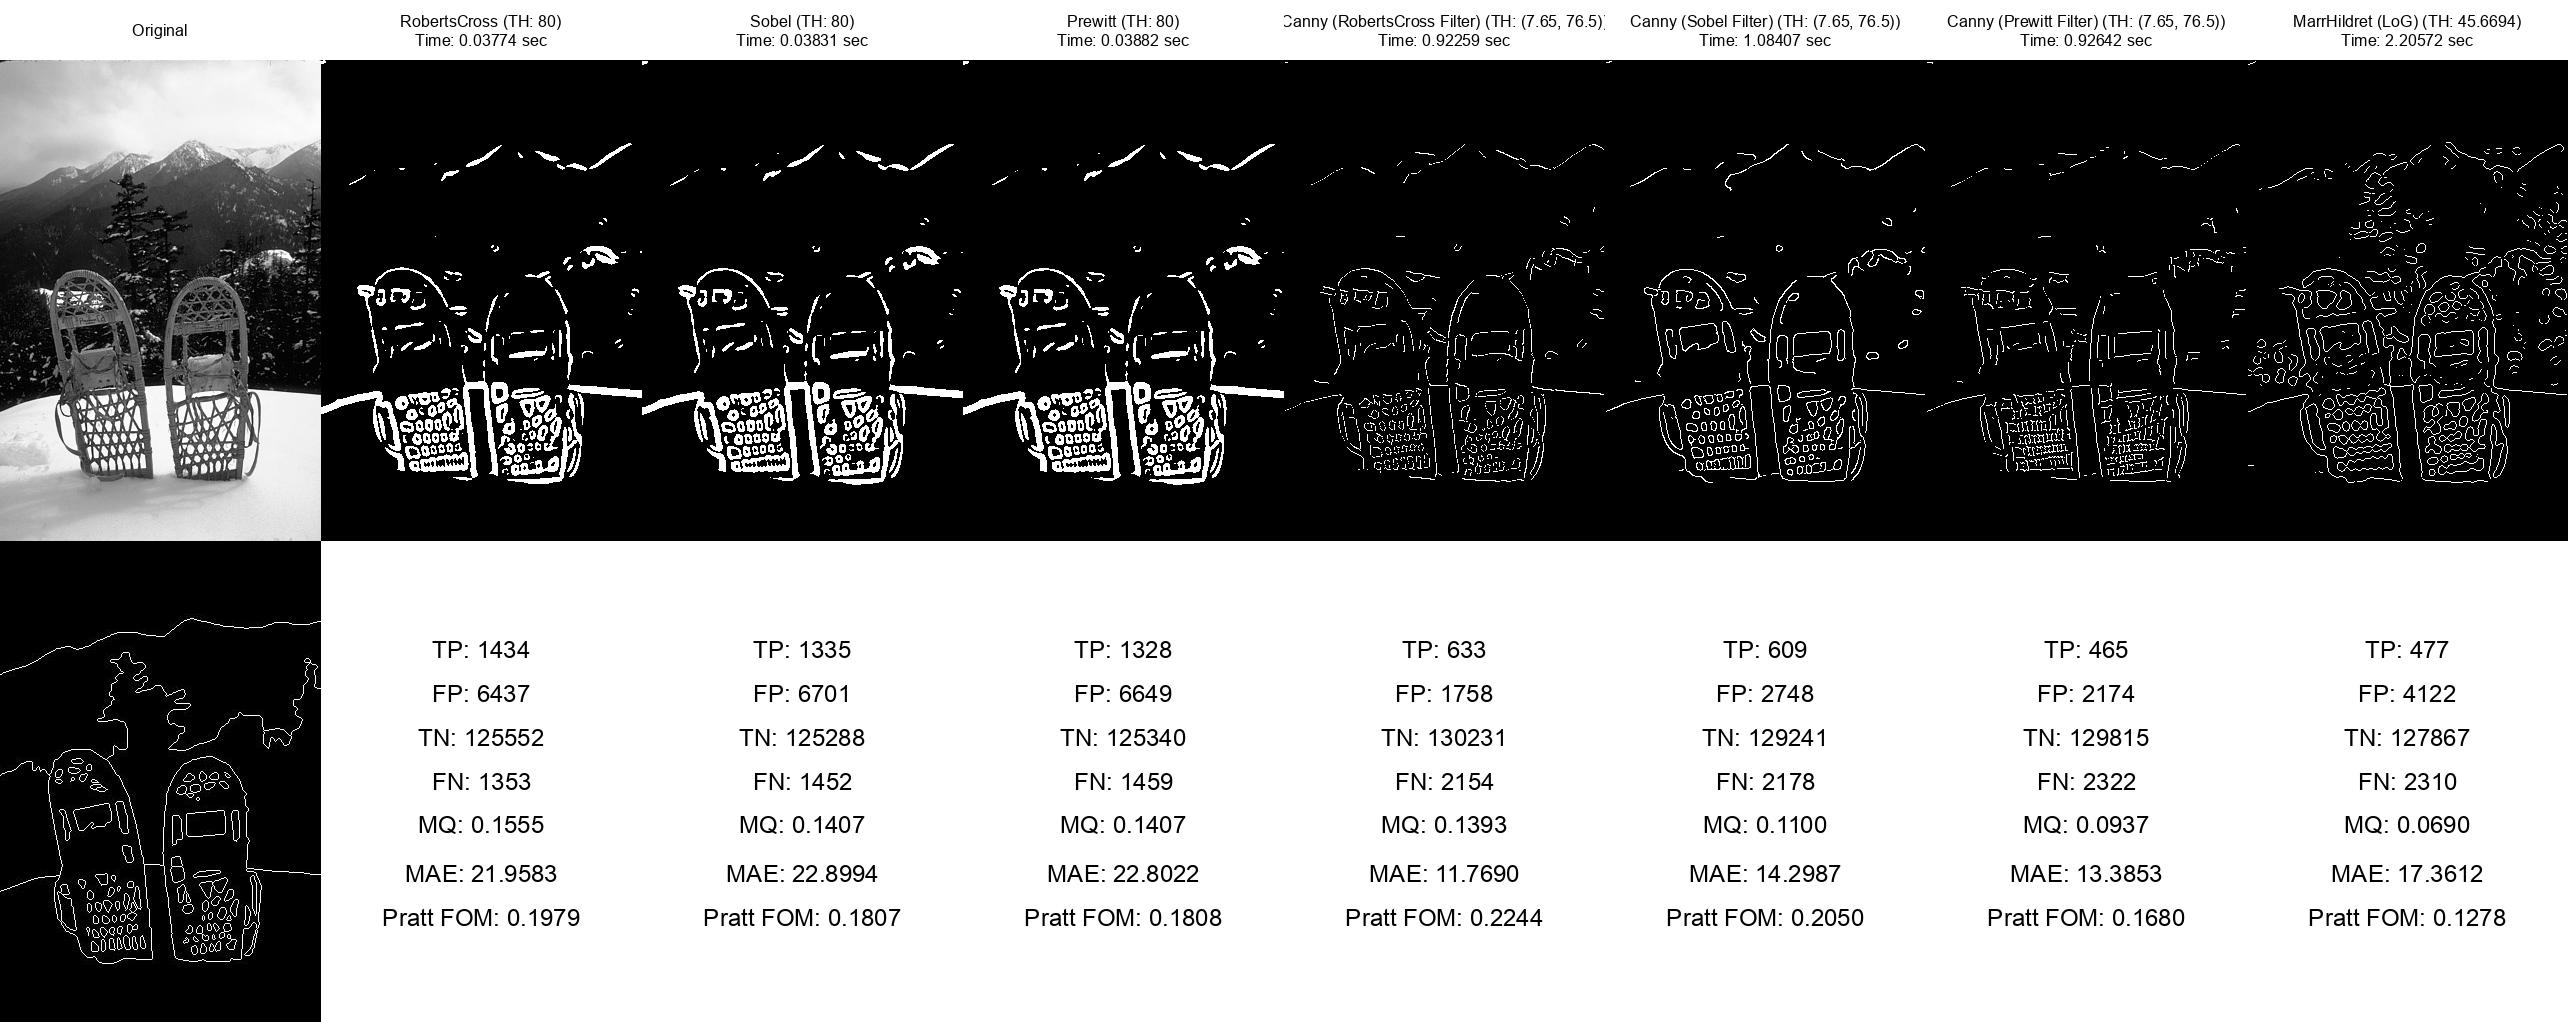
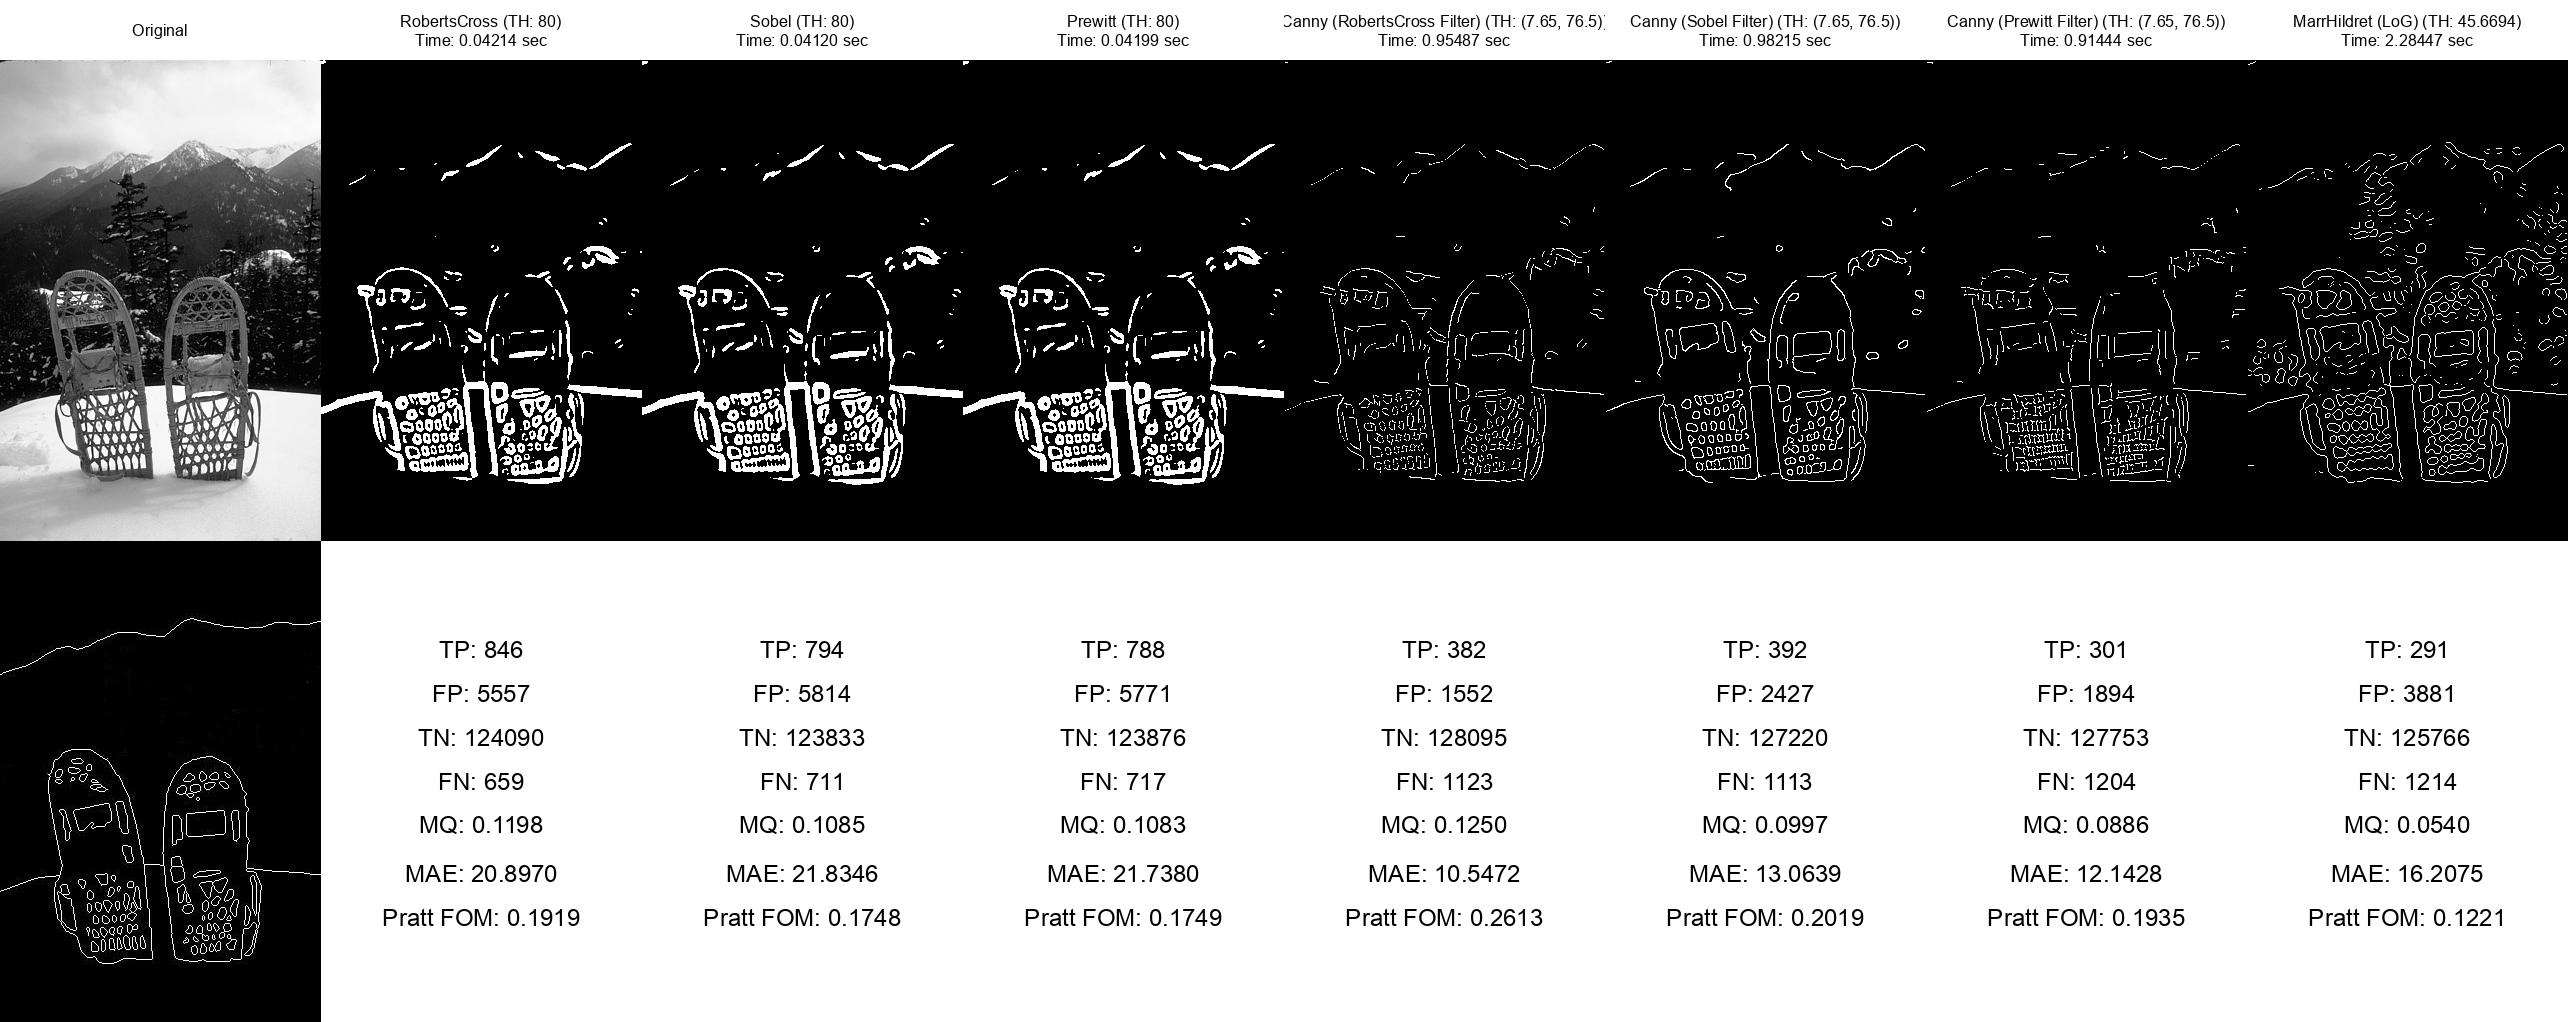
Updated ground truths

diff --git a/src/Benchmark.py b/src/Benchmark.py
@@ -13,7 +13,7 @@ FilterDIM = 3*FilterSIGMA                                               #
                                                                         #
 directory = 'Benchmark_Images/'                                         #
 result_dir = 'Benchmark_Result/'                                        #
-groundtruth_dir = directory+"GroundTruth"                               #
+groundtruth_dir = directory+"GroundTruth/"                               #
 SINGLE_FASE = ["RobertsCross", "Sobel", "Prewitt"]                      #
 MULTI_FASE = { "Canny": ["RobertsCross", "Sobel", "Prewitt"] }          #
 ZERO_CROSS = ["MarrHildret"]                                            #

diff --git a/src/Canny.py b/src/Canny.py
@@ -1,5 +1,5 @@
 from MultiPhaseEdgeDetector import MultiPhaseEdgeDetector
-class Canny (MultiFaseEdgeDetector):
+class Canny (MultiPhaseEdgeDetector):
     
     def __init__(self, operator, lowThresholdRatio, highThresholdRatio):
         
